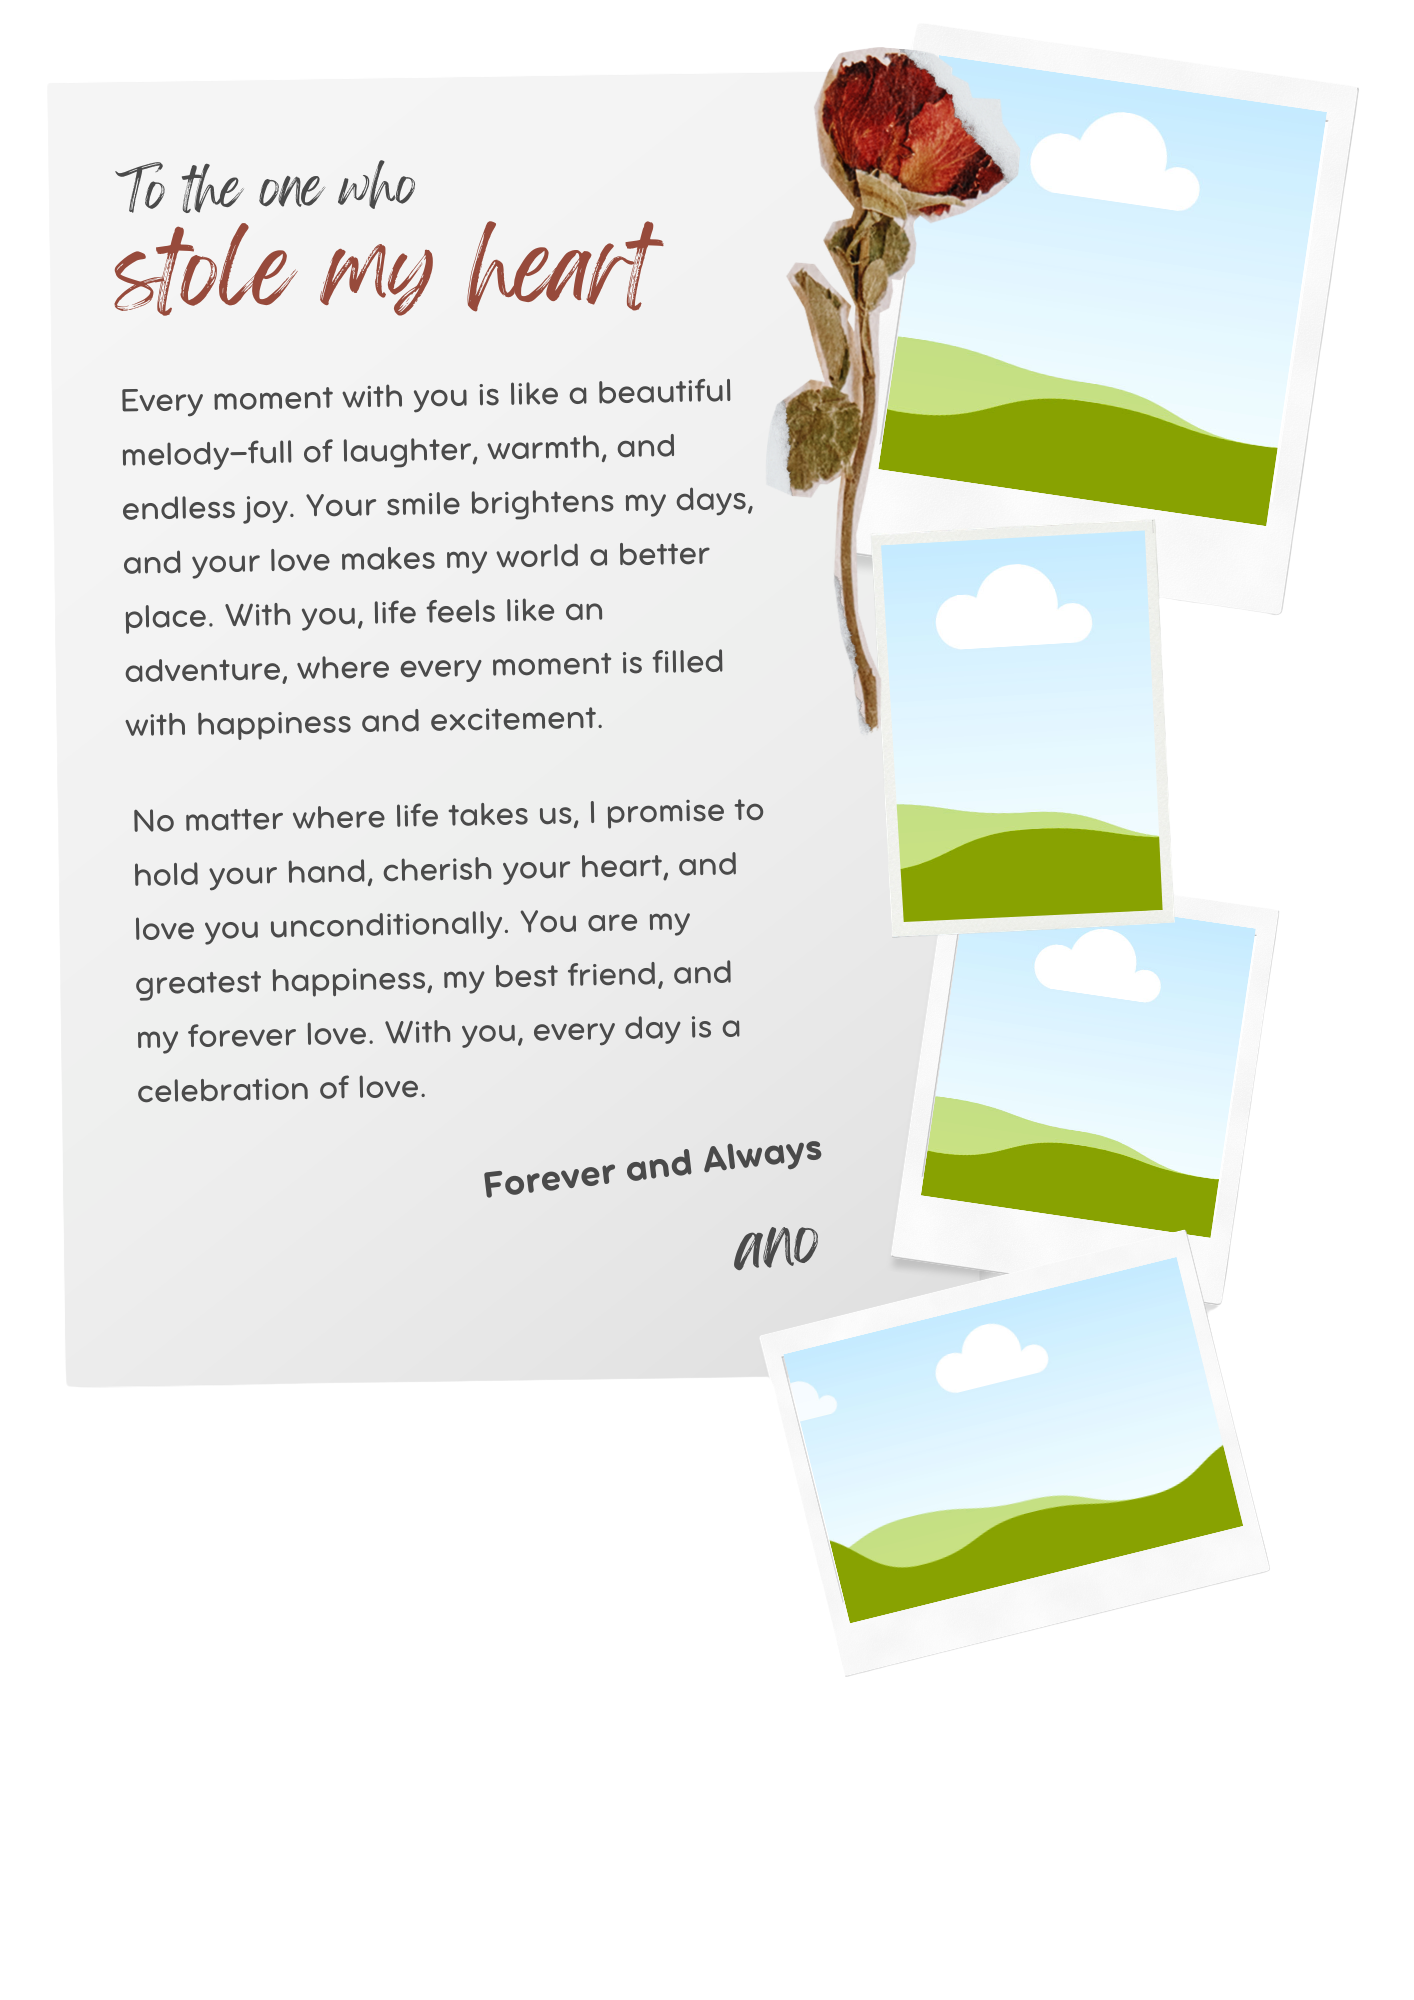
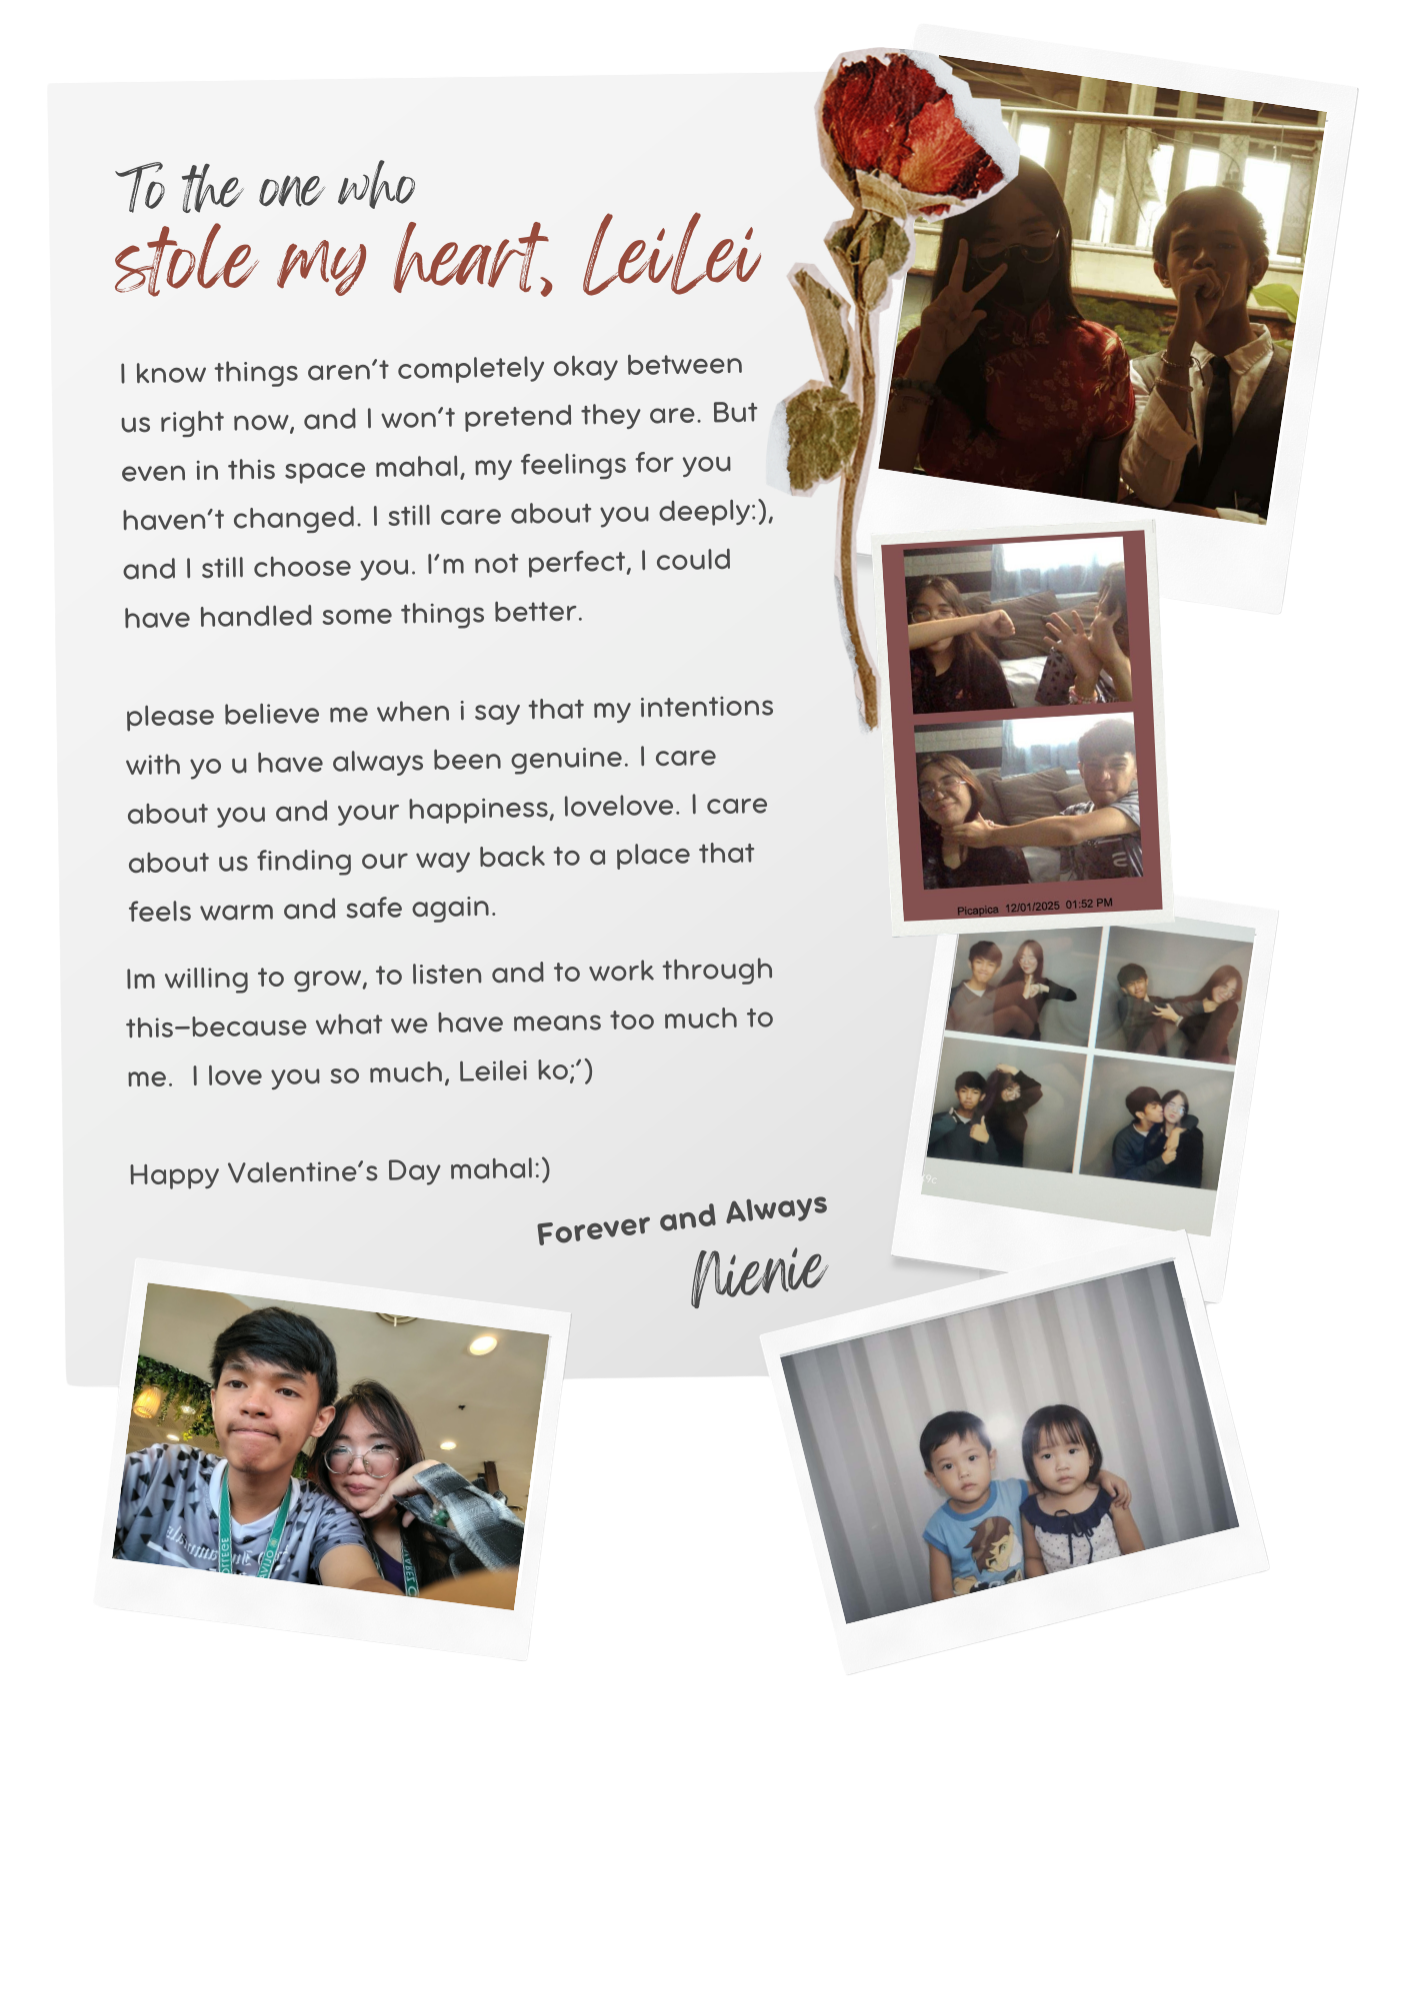
Add files via upload

Changed region(s): [[0.0622, 0.031, 0.9335, 0.837], [0.0622, 0.62, 0.4045, 0.806]]

diff --git a/page2.html b/page2.html
@@ -3,7 +3,7 @@
 <head>
     <meta charset="UTF-8">
     <meta name="viewport" content="width=device-width, initial-scale=1.0">
-    <title>hapi valentines day</title>
+    <title>For my Leilei</title>
 </head>
 <body bgcolor="#FFD1DC">
 
@@ -15,22 +15,18 @@
     click da leter below mi<br>
     <a href="page1.html"><img src="Images/open.png" width="30%"></a>
 
-
-    <p>Lorem ipsum dolor sit amet consectetur adipisicing elit. Temporibus ipsam velit, doloremque vero tempore at repudiandae assumenda, unde ullam molestias molestiae saepe accusantium voluptate ad. Fugit reprehenderit impedit earum illum.
-    </p>
-
     </center>
 <br><br><br>
 
 <center>
-<img src="Images/Adobe Express - file.png" width="90%">
+<img src="Images/letter.png" width="70%">
 
 </center>
 
 
+<center>
 
-
-    <h2>Songs</h2>
+    <font size="6">Songs that reminds me of you;D</font>
 
     <Table bgcolor="white" cellspacing="2" border="1" cellpadding="10">
         <tr>
@@ -38,8 +34,83 @@
               <img src="Images/nujins.jpg" width="100" height="1%"> 
              </th>
      <th>
-      <a href="https://open.spotify.com/track/5sdQOyqq2IDhvmx2lHOpwd?si=630a02f89ea64221">NewJeans - Super Shy</a>
+      <a href="https://open.spotify.com/track/5sdQOyqq2IDhvmx2lHOpwd?si=630a02f89ea64221">Super Shy - NewJeans</a>
       </th>
+
+      <th>
+              <img src="Images/love.jpg" width="100" height="1%"> 
+      </th>
+
+      <th>
+      <a href="https://open.spotify.com/track/5mtTAScDytxMMqZj14NmlN?si=1b3a5d33eae34110">Love - W2E</a>
+      </th>
+
+      <tr>
+
+        <th>
+           <img src="Images/blue.jpg" width="100" height="1%">
+        </th>
+
+        <th>
+            <a href="https://open.spotify.com/track/3be9ACTxtcL6Zm4vJRUiPG?si=a4097784d37545b7">Blue - Yung Kai</a>
+        </th>
+
+         <th>
+              <img src="Images/ebea.jpg" width="100" height="1%"> 
+      </th>
+
+      <th>
+      <a href="https://open.spotify.com/track/3iBgrkexCzVuPy4O9vx7Mf?si=03ef88e88a7c43cf">Glue Song - Beabadoobee</a>
+      </th>
+
+      </tr>
+
+       <tr>
+
+        <th>
+           <img src="Images/ivos.jpg" width="100" height="1%">
+        </th>
+
+        <th>
+            <a href="https://open.spotify.com/track/4z928BtE4j1bjhcX9RU44M?si=43815609e22949f4">Kabisado - Iv Of Spades</a>
+        </th>
+
+       <th>
+           <img src="Images/aura.jpg" width="100" height="1%">
+        </th>
+
+        <th>
+            <a href="https://open.spotify.com/track/26DcgZg9O6YCUVuRukGGhQ?si=cbdb7c6d1f0a4ab6">Aura - Iv Of Spades</a>
+        </th>
+
+      </tr>
+
+      <tr>
+
+        <th>
+           <img src="Images/ivos.jpg" width="100" height="1%">
+        </th>
+
+        <th>
+            <a href="https://open.spotify.com/track/4vJoaI1445sreRuSYAdaLW?si=481473ded18e49ad">Paru-Paro - Iv Of Spades</a>
+        </th>
+
+         <th>
+           <img src="Images/ian.jpg" width="100" height="1%">
+        </th>
+
+        <th>
+            <a href="https://open.spotify.com/track/43pylwgg4xpOiQ5oCIi33l?si=cc5883cb8f294bb1">ang balikat at baywang - Ian Quiruz</a>
+        </th>
+
+      </tr>
+
+    </table>
+<br>
+    Happy Valentine's Day, Leilei ko:))<br><br>
+    I hope u liked this website i made for you hehe;P<br><br>
+    I love you very very much^^
+
 
 </body>
 </html>

diff --git a/extra1.html b/extra1.html
@@ -3,7 +3,7 @@
 <head>
     <meta charset="UTF-8">
     <meta name="viewport" content="width=<device-width>, initial-scale=1.0">
-    <title>Document</title>
+    <title>i love you;)</title>
 </head>
 <body bgcolor="#FFD1DC">
     <center>

diff --git a/index.html b/index.html
@@ -3,7 +3,7 @@
 <head>
     <meta charset="UTF-8">
     <meta name="viewport" content="width=<device-width>, initial-scale=1.0">
-    <title>Document</title>
+    <title>Hia leilei</title>
 </head>
 <body bgcolor="#FFD1DC">
     <center>

diff --git a/extra3.html b/extra3.html
@@ -3,7 +3,7 @@
 <head>
     <meta charset="UTF-8">
     <meta name="viewport" content="width=<device-width>, initial-scale=1.0">
-    <title>Document</title>
+    <title>pls</title>
 </head>
 <body bgcolor="#FFD1DC">
     <center>

diff --git a/extra2.html b/extra2.html
@@ -3,7 +3,7 @@
 <head>
     <meta charset="UTF-8">
     <meta name="viewport" content="width=<device-width>, initial-scale=1.0">
-    <title>Document</title>
+    <title>aw</title>
 </head>
 <body bgcolor="#FFD1DC">
     <center>

diff --git a/page1.html b/page1.html
@@ -3,7 +3,7 @@
 <head>
     <meta charset="UTF-8">
     <meta name="viewport" content="width=device-width, initial-scale=1.0">
-    <title>Document</title>
+    <title>hmmm..</title>
 </head>
 <body bgcolor="#FFD1DC">
 
